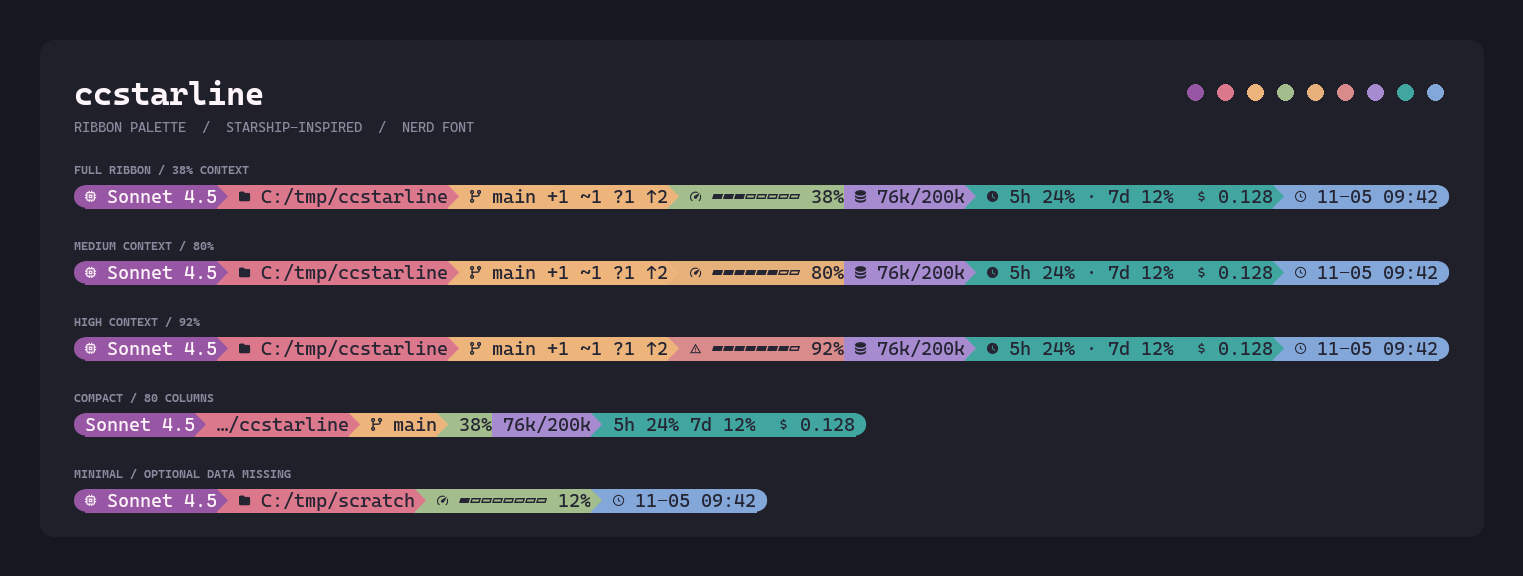
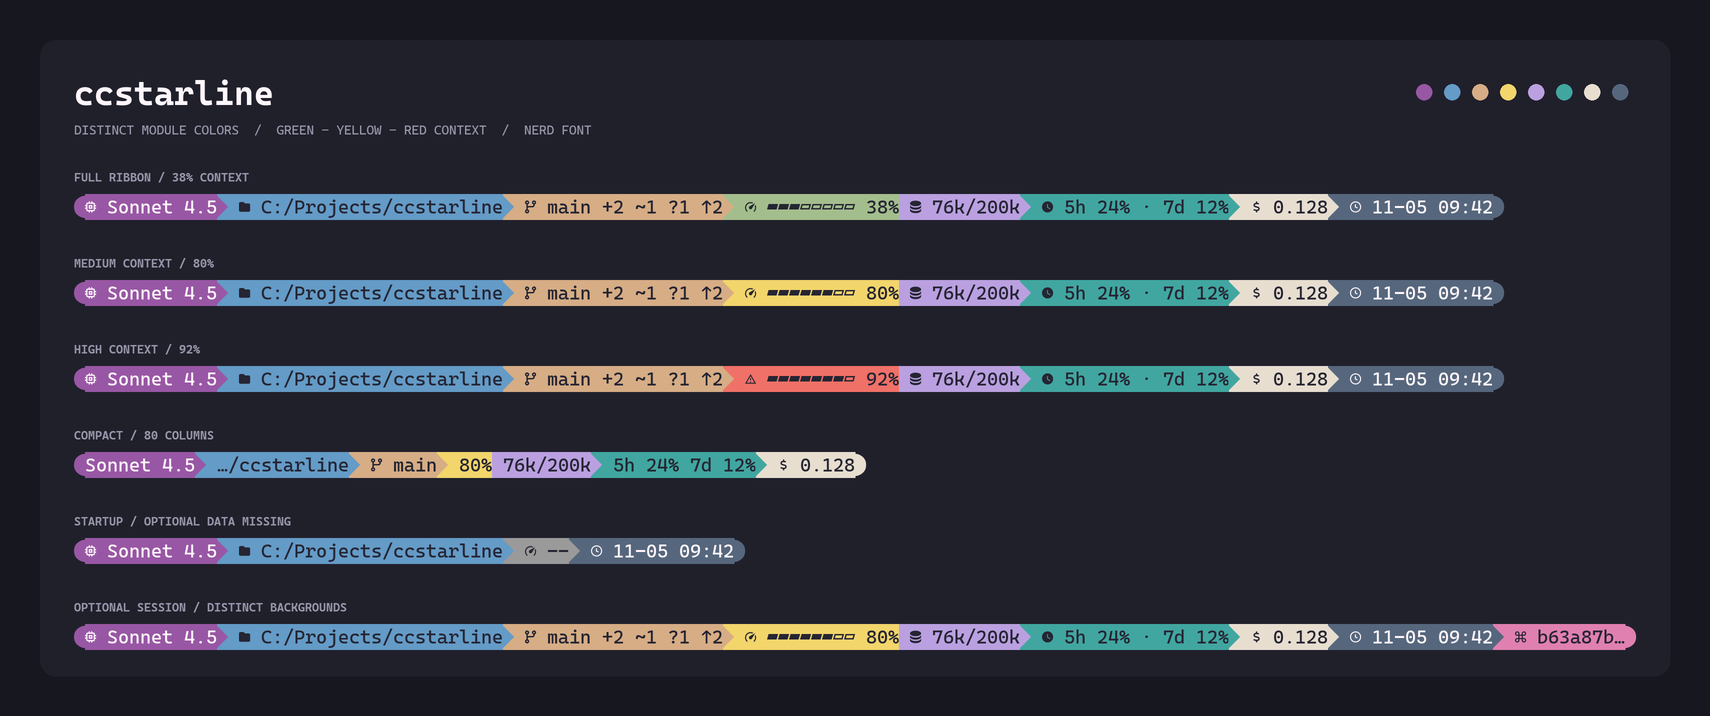
fix: 优化状态栏配色并发布 v1.0.2

diff --git a/config.go b/config.go
@@ -29,20 +29,22 @@ type Options struct {
 
 func defaultConfig() Config {
 	return Config{
-		// 配色使用 0xRRGGBB；保留参考文件中的 ribbon 色带。
+		// 配色使用 0xRRGGBB；模块使用独立底色，上下文用绿 / 黄 / 红表示占用等级。
 		Colors: map[string]RGB{
 			"light":           rgb(0xfff6fb), // 浅色文字
 			"dark":            rgb(0x252533), // 深色文字
 			"user_bg":         rgb(0x9857a4), // 模型：紫色
-			"directory_bg":    rgb(0xdb788c), // 目录 / 高占用警示：玫瑰粉
-			"git_bg":          rgb(0xedb57c), // Git / 中占用警示：杏色
-			"language_bg":     rgb(0x83bed2), // 上下文：浅蓝
-			"tokens_bg":       rgb(0xa78bd0), // Token：薰衣草紫
+			"directory_bg":    rgb(0x649bc7), // 目录：天蓝
+			"git_bg":          rgb(0xd6ad85), // Git：沙棕
+			"language_bg":     rgb(0x9a9a9a), // 未知上下文：中性灰
+			"tokens_bg":       rgb(0xbaa0e0), // Token：浅薰衣草紫
 			"context_low_bg":  rgb(0xa3be8c), // 上下文：低占用淡绿
-			"context_mid_bg":  rgb(0xe6b07a), // 上下文：中占用淡橘
-			"context_high_bg": rgb(0xd98b8b), // 上下文：高占用淡红
-			"docker_bg":       rgb(0x41a6a0), // 额度与费用：青绿
-			"time_bg":         rgb(0x83a7d8), // 时间：蓝色
+			"context_mid_bg":  rgb(0xf2d56b), // 上下文：中占用明黄
+			"context_high_bg": rgb(0xf07167), // 上下文：高占用珊瑚红
+			"docker_bg":       rgb(0x41a6a0), // 额度：青绿
+			"cost_bg":         rgb(0xe7ded0), // 费用：米白
+			"time_bg":         rgb(0x56677d), // 时间：深灰蓝，搭配浅色文字
+			"session_bg":      rgb(0xe080b0), // 会话：粉色
 		},
 		Directory: DirectoryStyle{
 			Length: 3, Symbol: "…/",

diff --git a/status.go b/status.go
@@ -149,10 +149,10 @@ func buildSegments(s Snapshot, git *GitState, cfg Config, now time.Time, ascii b
 		case "cost":
 			if s.Cost != nil && s.Cost.USD != nil {
 				cost := math.Max(0, *s.Cost.USD)
-				add(name, "docker_bg", "dark", icon(" ", "$")+fmt.Sprintf("%.3f", cost))
+				add(name, "cost_bg", "dark", icon(" ", "$")+fmt.Sprintf("%.3f", cost))
 			}
 		case "time":
-			add(name, "time_bg", "dark", icon(" ", "")+now.Format(cfg.Options.TimeLayout), icon(" ", "")+now.Format("15:04"))
+			add(name, "time_bg", "light", icon(" ", "")+now.Format(cfg.Options.TimeLayout), icon(" ", "")+now.Format("15:04"))
 		case "tokens":
 			if u := s.Context.Usage; u != nil && s.Context.Size > 0 {
 				text := formatTokens(u.Input+u.Read+u.Write) + "/" + formatTokens(s.Context.Size)
@@ -160,7 +160,7 @@ func buildSegments(s Snapshot, git *GitState, cfg Config, now time.Time, ascii b
 			}
 		case "session":
 			if s.SessionID != "" {
-				add(name, "user_bg", "light", icon("", "sid")+" "+shorten(s.SessionID, 8, ascii))
+				add(name, "session_bg", "dark", icon("", "sid")+" "+shorten(s.SessionID, 8, ascii))
 			}
 		}
 	}

diff --git a/main.go b/main.go
@@ -16,7 +16,7 @@ import (
 
 // version is overridden at build time with
 // -ldflags "-X main.version=..." by the release workflow.
-var version = "1.0.1"
+var version = "1.0.2"
 
 // Claude Code supplies one complete JSON snapshot on stdin for each repaint.
 type Snapshot struct {
